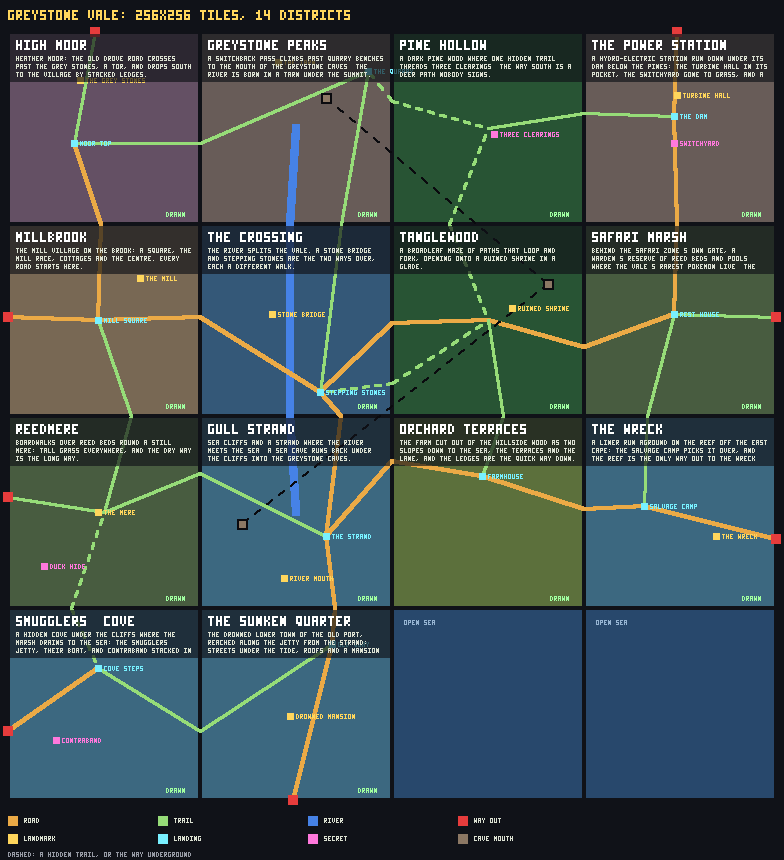
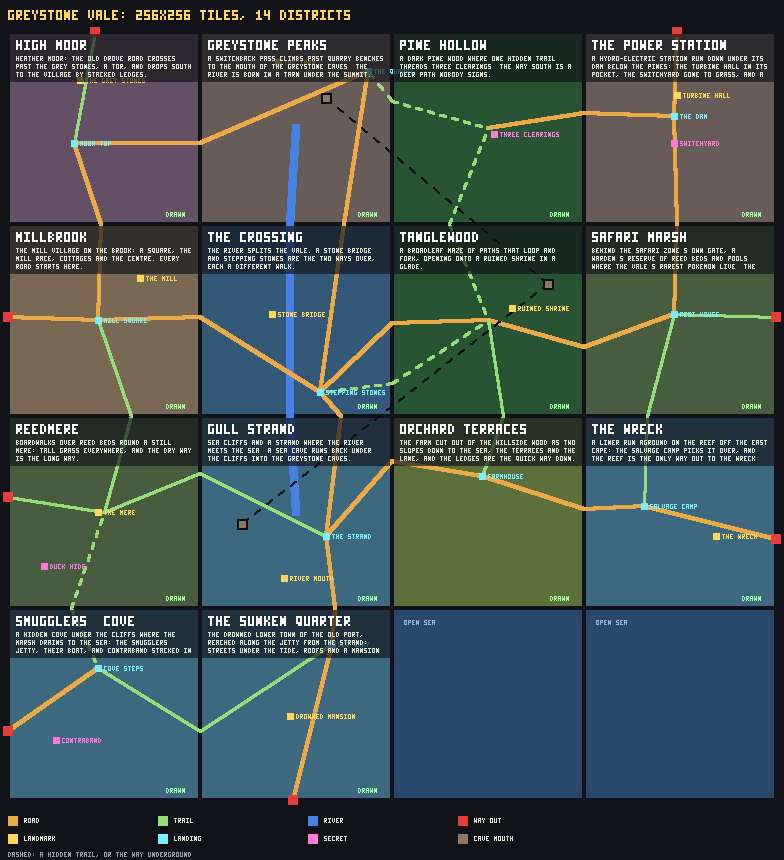
Greystone Vale: the north half walked - three roads that broke at a seam, a seam narrower than its road, and a garden fence on the lane's sand (#332)

diff --git a/tools/mapcraft/worlds/greystoneVale/plan.ts b/tools/mapcraft/worlds/greystoneVale/plan.ts
@@ -163,7 +163,7 @@ export const GREYSTONE_VALE: WorldPlan = {
   ],
   crossings: [
     // East and west, measured down the shared edge from its north end.
-    { between: ['high-moor', 'greystone-peaks'], at: 36, kind: 'trail' },
+    { between: ['high-moor', 'greystone-peaks'], at: 36, kind: 'road' },
     { between: ['greystone-peaks', 'pine-hollow'], at: 22, kind: 'trail', hidden: true },
     { between: ['millbrook', 'the-crossing'], at: 30, kind: 'road' },
     { between: ['the-crossing', 'tanglewood'], at: 32, kind: 'road' },
@@ -171,14 +171,14 @@ export const GREYSTONE_VALE: WorldPlan = {
     { between: ['reedmere', 'gull-strand'], at: 18, kind: 'trail' },
     { between: ['gull-strand', 'orchard-terraces'], at: 14, kind: 'road' },
     // Where the vale grew: each of the old ways out east is the way on now.
-    { between: ['pine-hollow', 'power-station'], at: 26, kind: 'trail' },
+    { between: ['pine-hollow', 'power-station'], at: 26, kind: 'road' },
     { between: ['tanglewood', 'safari-marsh'], at: 40, kind: 'road' },
     { between: ['orchard-terraces', 'the-wreck'], at: 30, kind: 'road' },
     { between: ['smugglers-cove', 'sunken-quarter'], at: 40, kind: 'trail' },
     // North and south, measured along the shared edge from its west end.
     { between: ['high-moor', 'millbrook'], at: 30, kind: 'road' },
     { between: ['greystone-peaks', 'the-crossing'], at: 28, kind: 'river' },
-    { between: ['greystone-peaks', 'the-crossing'], at: 46, kind: 'trail' },
+    { between: ['greystone-peaks', 'the-crossing'], at: 46, kind: 'road', width: 4 },
     { between: ['pine-hollow', 'tanglewood'], at: 18, kind: 'trail', hidden: true },
     { between: ['millbrook', 'reedmere'], at: 40, kind: 'trail' },
     { between: ['the-crossing', 'gull-strand'], at: 28, kind: 'river' },

diff --git a/tools/mapcraft/worlds/greystoneVale/powerStation.ts b/tools/mapcraft/worlds/greystoneVale/powerStation.ts
@@ -134,7 +134,7 @@ export function powerStation(): MapcraftResult {
   p.building('grey-house', 6, 31).building('house', 13, 31);
   p.road([[9, 28], [9, 35]]);
   p.road([[5, 35], [16, 35]]); // the lane along their doors, the garden across it
-  p.yard(5, 37, 14, 6, { gates: [[9, 37], [10, 37], [11, 42], [12, 42]], inner: '.' }); // their garden
+  p.yard(5, 38, 14, 5, { gates: [[9, 38], [10, 38], [11, 42], [12, 42]], inner: '.' }); // their garden, a strip of grass off the lane
   p.flowers([6, 39], [7, 39], [6, 40], [8, 41], [15, 40]);
   // and out of its back gate, down to the pond, where they fished off shift
   p.road([[11, 43], [11, 48], [38, 48]]);

diff --git a/docs/screens/greystone-vale/README.md b/docs/screens/greystone-vale/README.md
@@ -966,3 +966,39 @@ player's map is built by). While its districts are being drawn it is on
 - **No other map's raid changes**: like a player's map, it is in a raid's
   content only when the raid is on it, so every seeded roll on the shipped five
   is what it was.
+
+## The north half, walked
+
+High Moor, Greystone Peaks, Pine Hollow and The Power Station, toured in the
+real game through the explorer run (a test-mode build, stepped, 3x window).
+Three faults, all fixed:
+
+- **Three roads broke at a seam.** A crossing the plan calls a `trail` is cut
+  as grass, but at three of them both districts drew a sand road up to the
+  seam, so the road stopped four tiles short and went on again beyond a strip
+  of grass through the trees: High Moor to Greystone Peaks, Pine Hollow to The
+  Power Station, and Greystone Peaks to The Crossing. All three are roads in
+  the plan now.
+
+  ![the road east out of High Moor, before](north-walk/moor-seam-before.png)
+  ![and after](north-walk/moor-seam-after.png)
+
+- **The road south out of the peaks narrowed at the seam.** Both districts
+  draw it four tiles wide and the opening was two, so a conifer stood half
+  in the road there. That crossing is four wide now.
+
+  ![the road south out of the peaks, narrowed](north-walk/peaks-seam-narrow.png)
+  ![and after](north-walk/peaks-seam-after.png)
+
+- **The workers' garden fence stood on the lane's sand.** At The Power
+  Station the garden's top fence ran right along the lane, and the sand's
+  fringe showed under the rails. A row of grass between them now.
+
+  ![the workers' garden, before](north-walk/garden-before.png)
+  ![and after](north-walk/garden-after.png)
+
+Four trail crossings in the south half also take a sand road into grass at the
+seam (Reedmere to Gull Strand, Millbrook to Reedmere, Smugglers' Cove to the
+Sunken Quarter, Safari Marsh to The Wreck). They are left to the south
+half's walk, since a road that turns into a trail at a district's edge can be
+meant.
